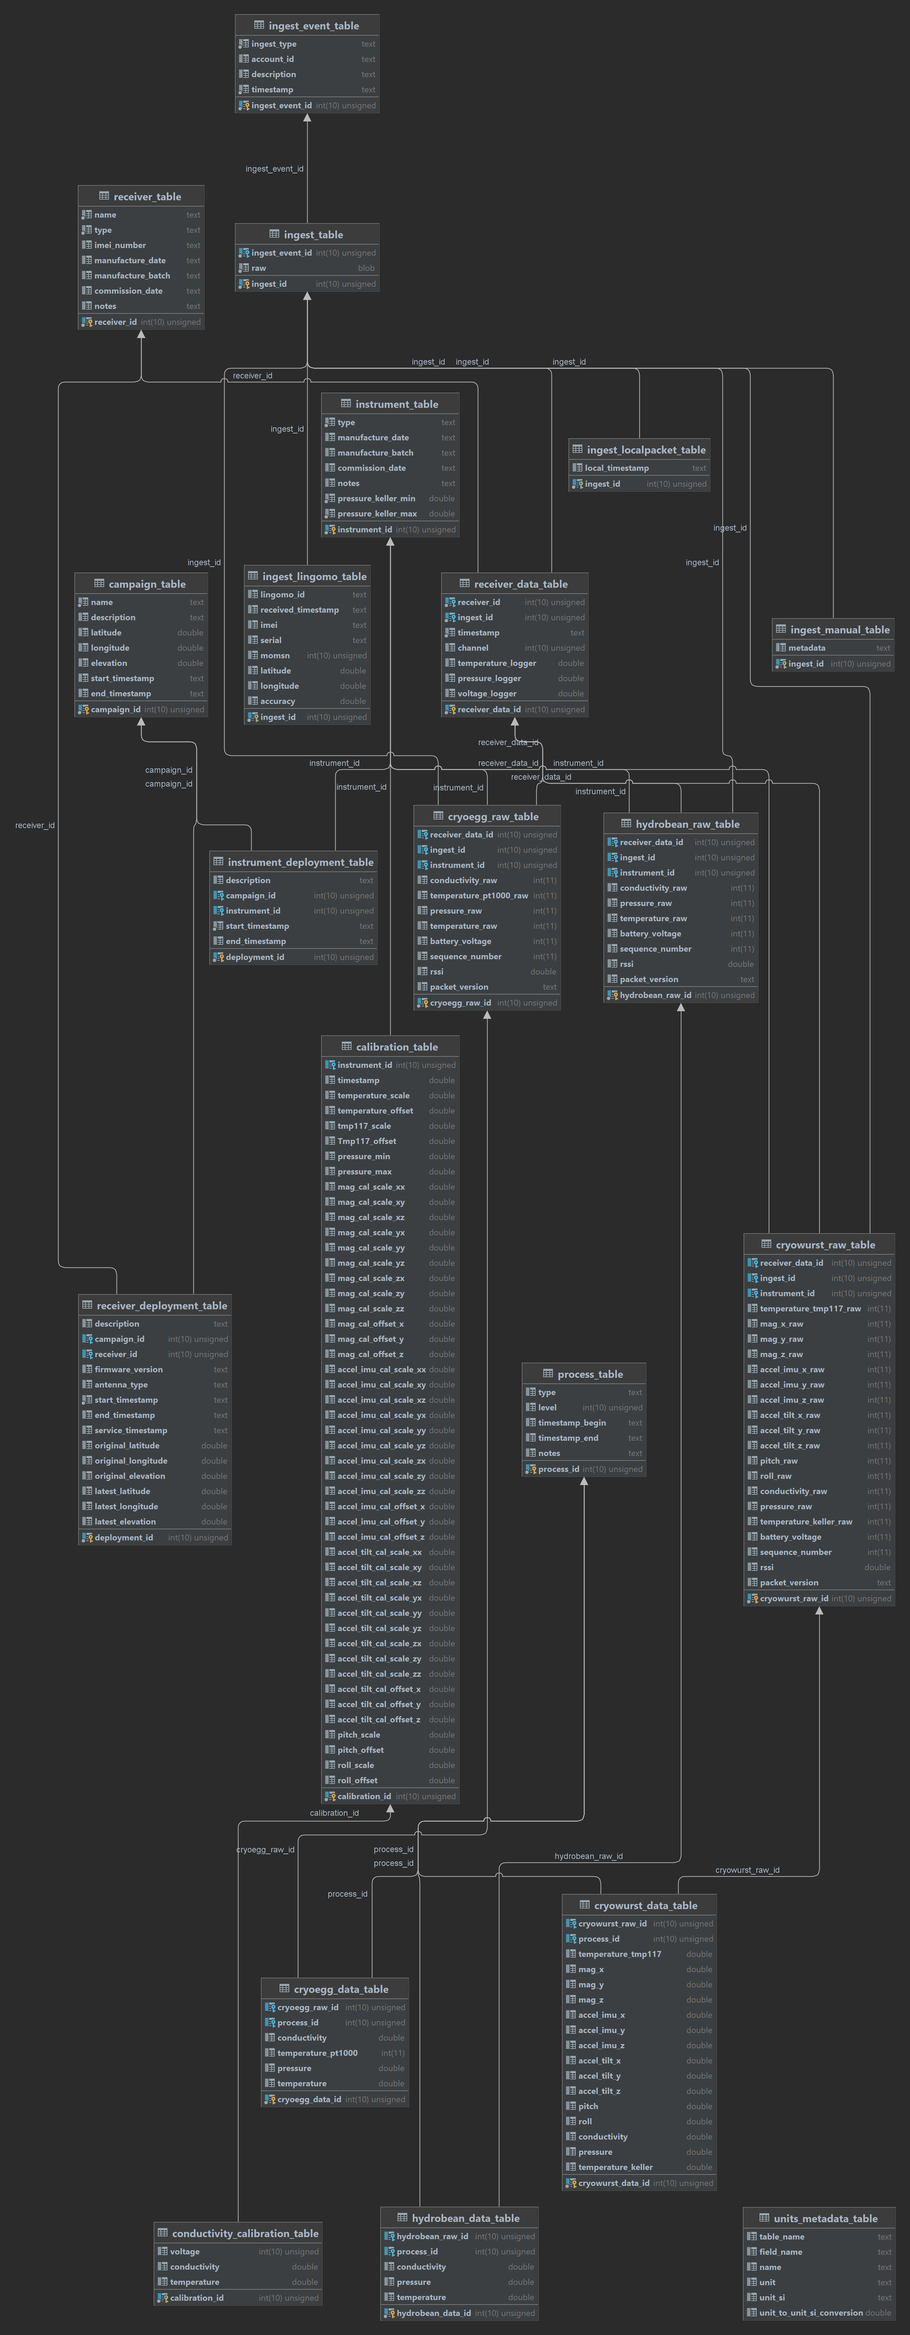
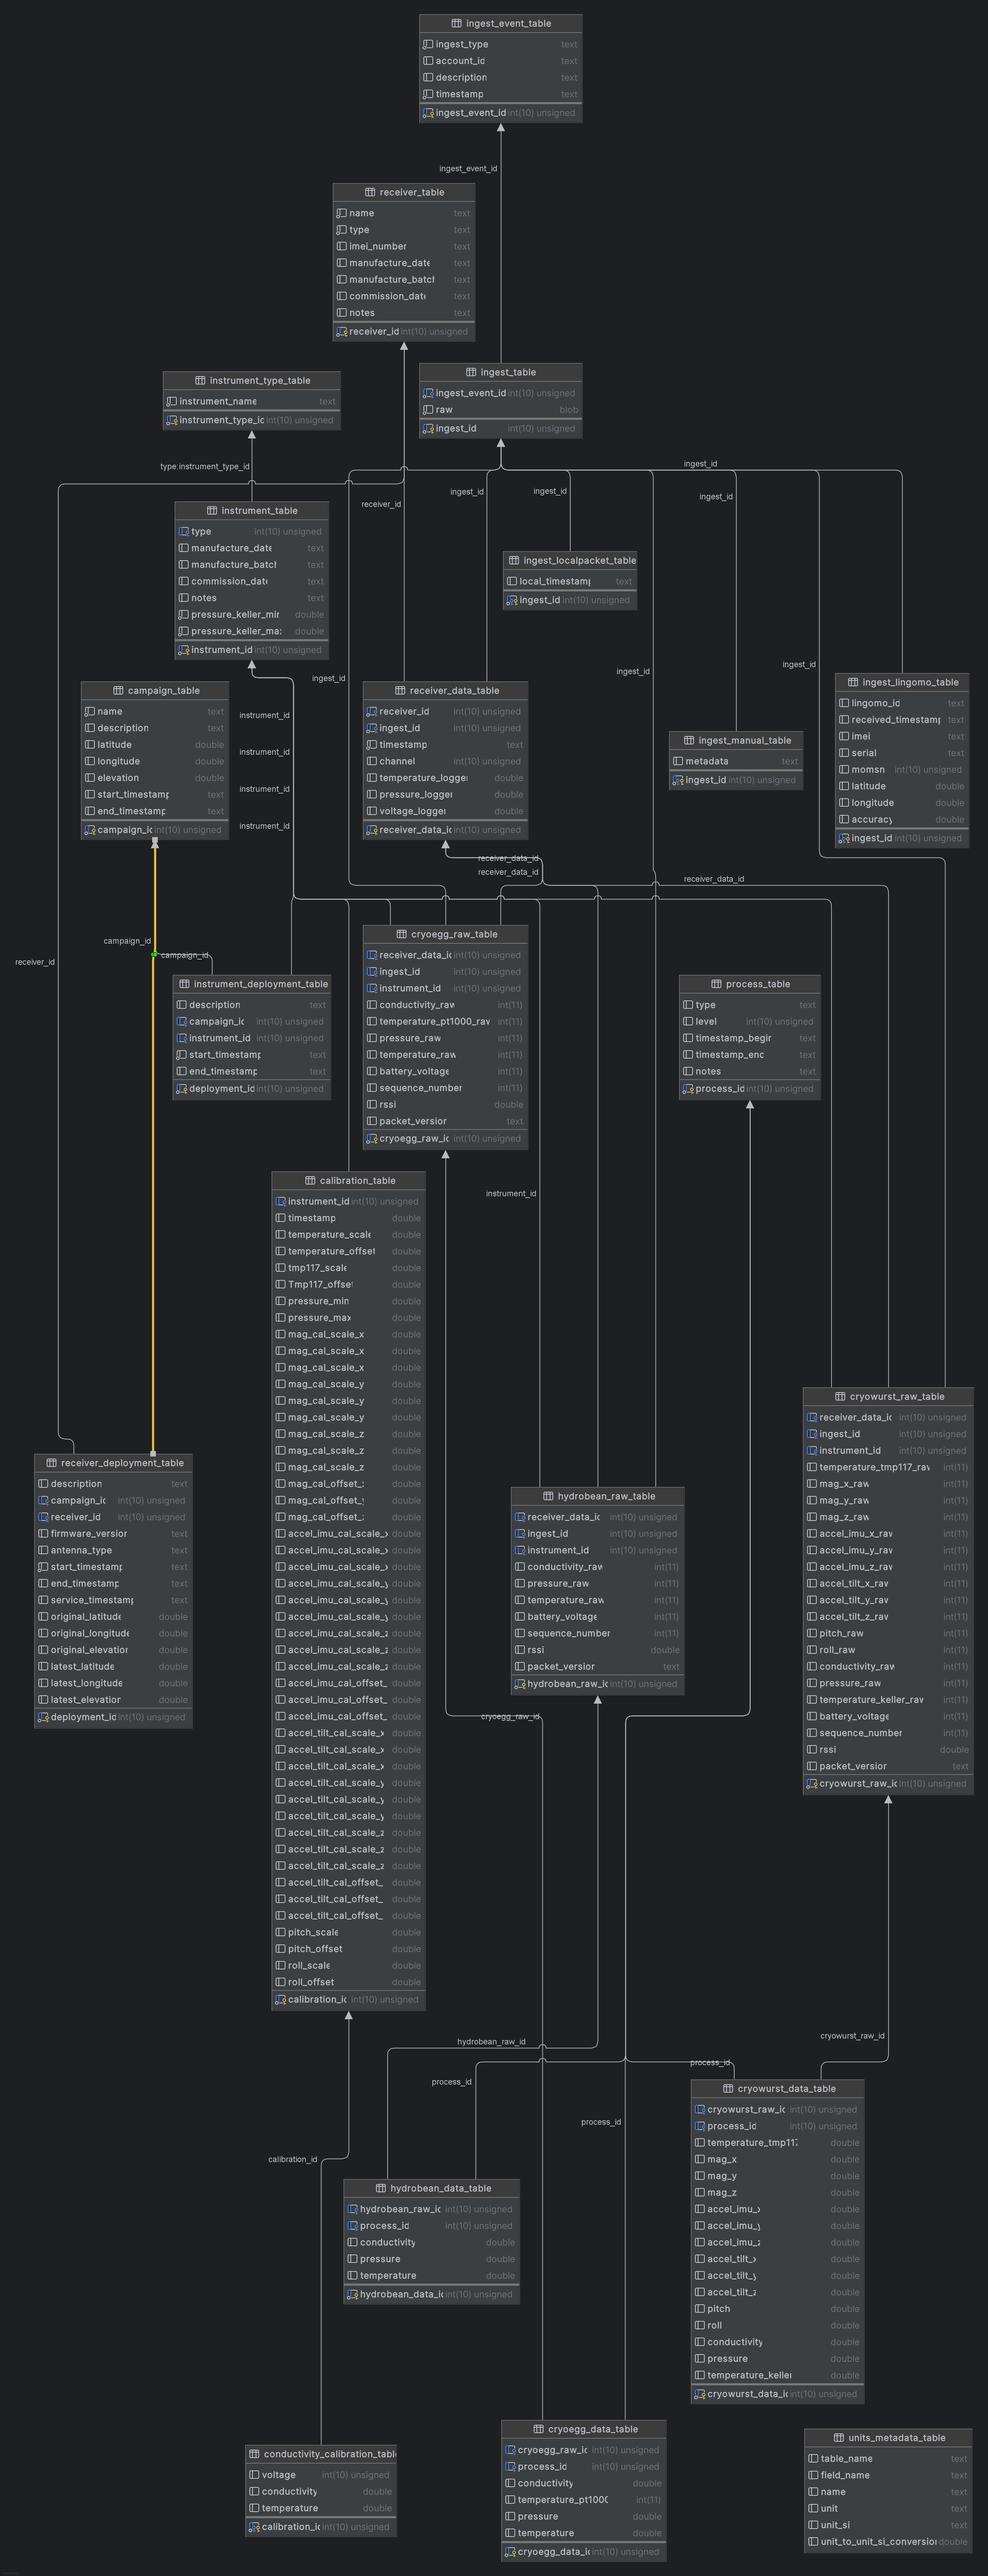
feat/Added instrument_type_table to db

diff --git a/backend/CHIL/chil/models/instrument_api_model.py b/backend/CHIL/chil/models/instrument_api_model.py
@@ -1,0 +1,19 @@
+"""
+Defines the instrument model, used to represent instruments in the API
+"""
+
+from django.db import models
+
+class Instrument(models.Model):
+    """
+    Represents an instrument.
+    """
+
+    instrument_id = models.BigAutoField(primary_key=True)
+    type = models.CharField(max_length=9)
+    manufacture_date
+    manufacture_batch
+    commission_date
+    notes
+    pressure_keller_min
+    pressure_keller_max

diff --git a/backend/CHIL/chil/views/instrument_api_view.py b/backend/CHIL/chil/views/instrument_api_view.py
@@ -22,13 +22,11 @@ class InstrumentView(APIView):
         """List all instruments of a specified type"""
         print("List all")
 
-    def getInstrument():
+    def get():
         """Get infomation of a specific instrument by id"""
 
-    def updateInstrument():
+    def update():
         """Update instrument entry"""
 
-    def deleteByInstrument():
+    def delete():
         """Delete a specific instrument"""
-
-    def 

diff --git a/backend/CHIL/chil/serializers/instrument_api_serializer.py b/backend/CHIL/chil/serializers/instrument_api_serializer.py
@@ -1,0 +1,7 @@
+"""
+The serializer for the instrument endpoints on the API
+"""
+
+class InstrumentSerializer():
+    """
+    """

diff --git a/backend/CHIL/chil/models/__init__.py b/backend/CHIL/chil/models/__init__.py
@@ -1,0 +1,11 @@
+"""
+Creates the models package
+"""
+
+from .instrument_api_model import (
+
+)
+
+__all__ = [
+    
+]
